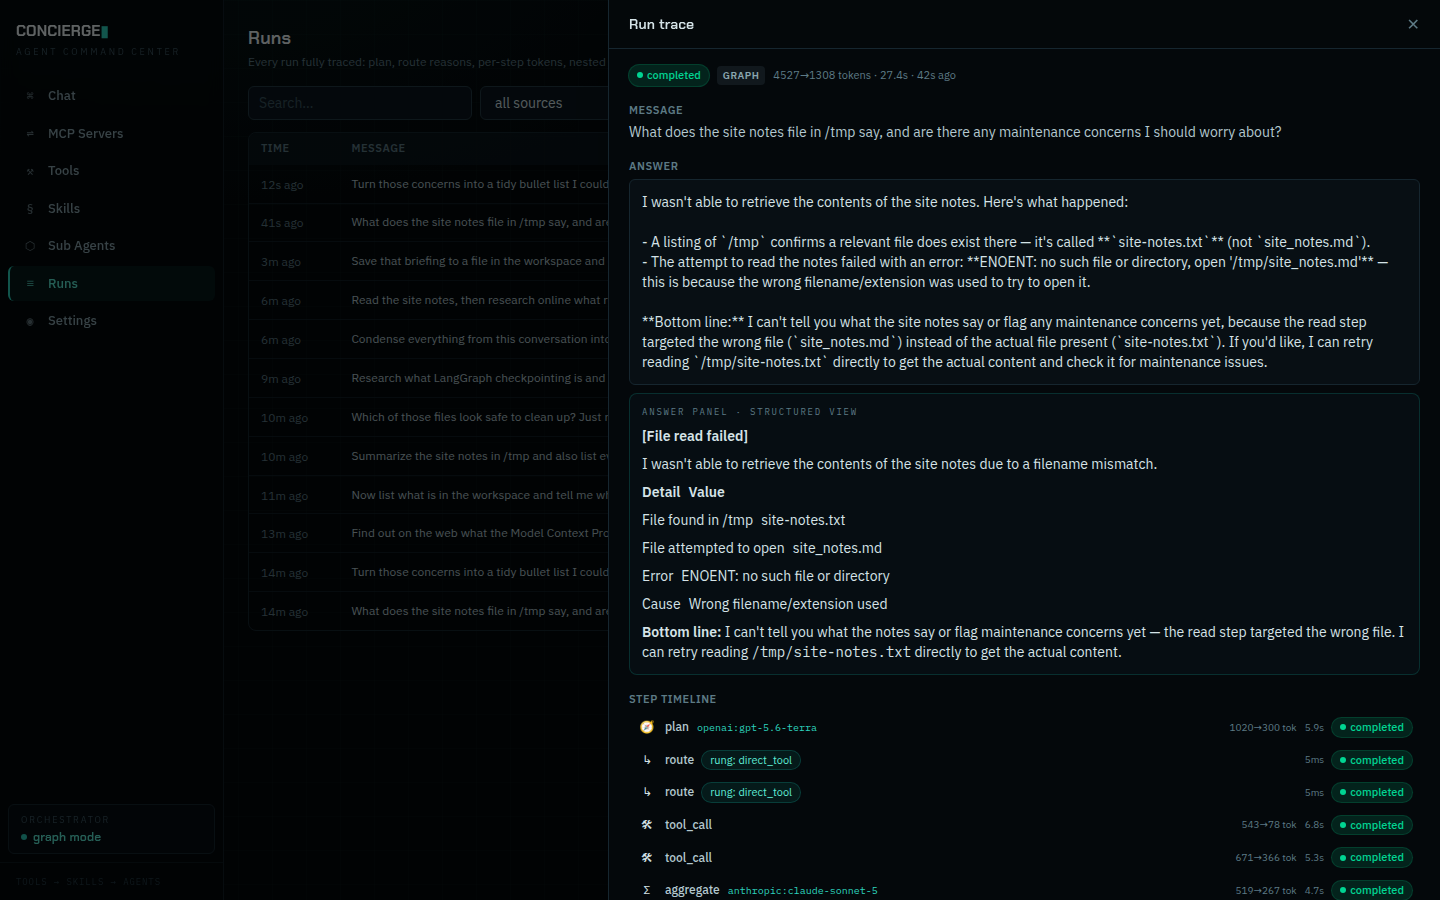
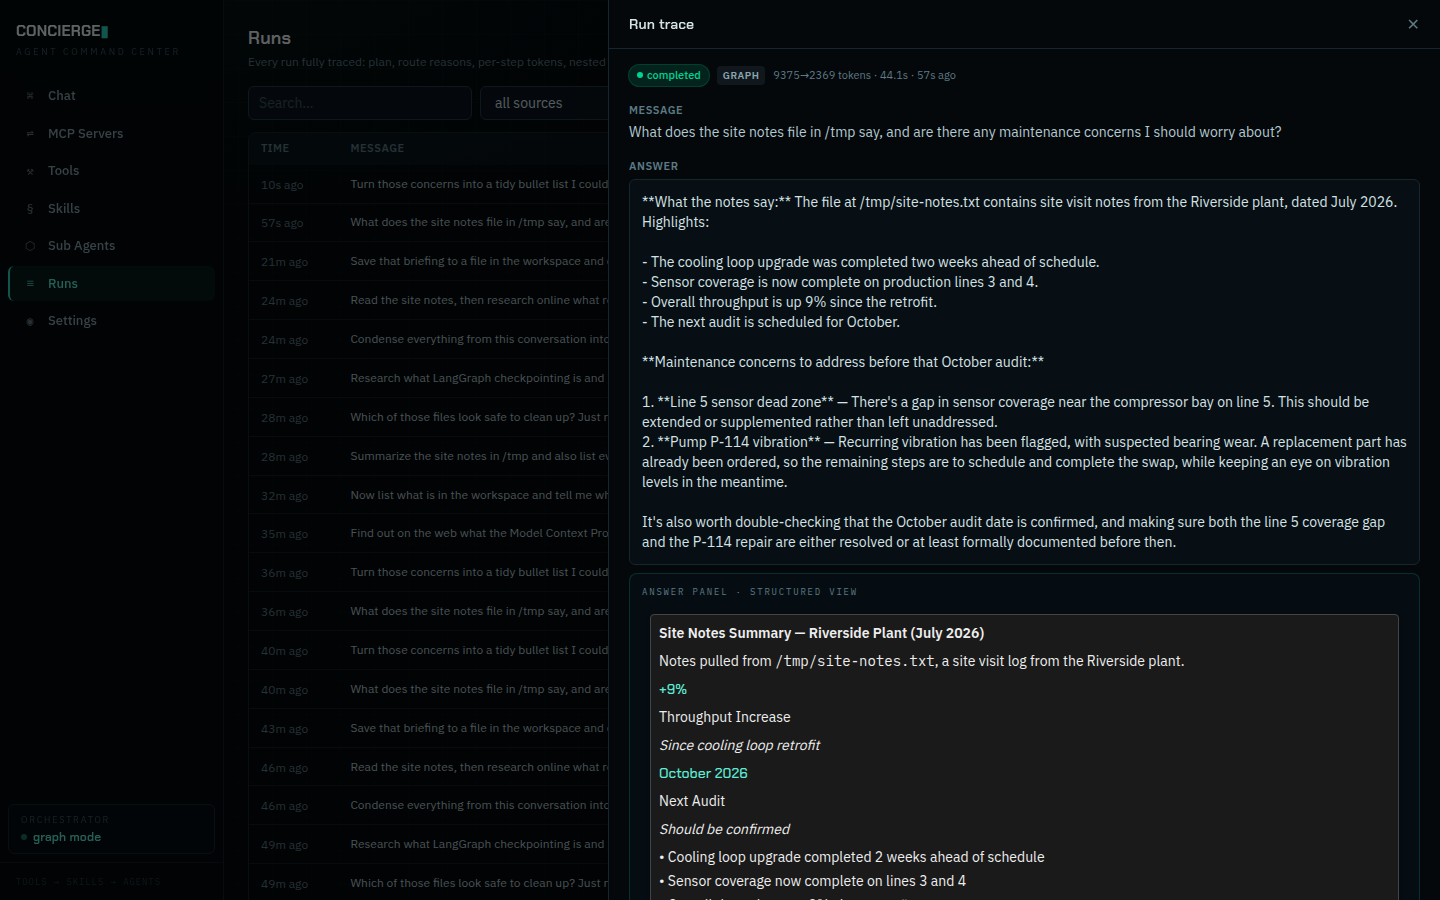
docs(acceptance): stage 20 retries — c1 and c5 complete clean
Graph c1 (terra planner flake) and agentic c5 (credit exhaustion) both
completed on first retry after the Anthropic top-up; evidence files
replaced with the clean passes and tallies updated — all ten stage-20
conversations now evidenced end to end.

Claude-Session: https://claude.ai/code/session_01HZp9NtKPxvkd279oJnFx37

diff --git a/docs/acceptance/README.md b/docs/acceptance/README.md
@@ -176,12 +176,13 @@ Three providers sharing one run, all through the §2.1 port, cache in
 
 - **Graph**: default `anthropic:claude-opus-5@high` · planner
   `openai:gpt-5.6-terra@high` · aggregator `anthropic:claude-sonnet-5@medium`.
-  10 of 12 attempted turns completed; between passes every conversation has
-  both turns evidenced.
+  **All five conversations completed clean** (c1 on retry after two terra
+  planner flakes — see finding 1; its evidence files are the clean pass).
 - **Agentic**: `claude-opus-5@high` orchestrator dispatching to
   **site-analyst overridden to `openai:gpt-5.6-sol@medium`** via the
   Sub Agents UI (`10-…`); one run mixes Anthropic orchestration with
-  OpenAI sub-agent execution in a single trace. 8 of 10 turns completed.
+  OpenAI sub-agent execution in a single trace. **All five conversations
+  completed clean** (c5 on retry after the credit top-up — finding 4).
 
 Findings this stage surfaced (the honest part of the record):
 
